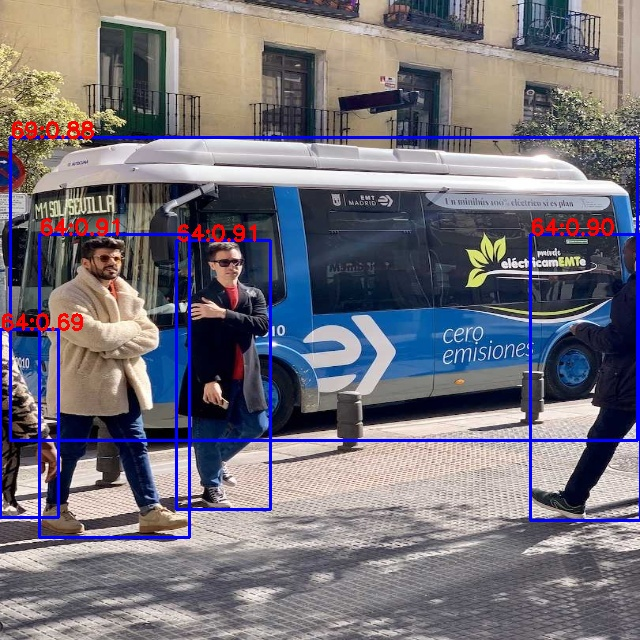
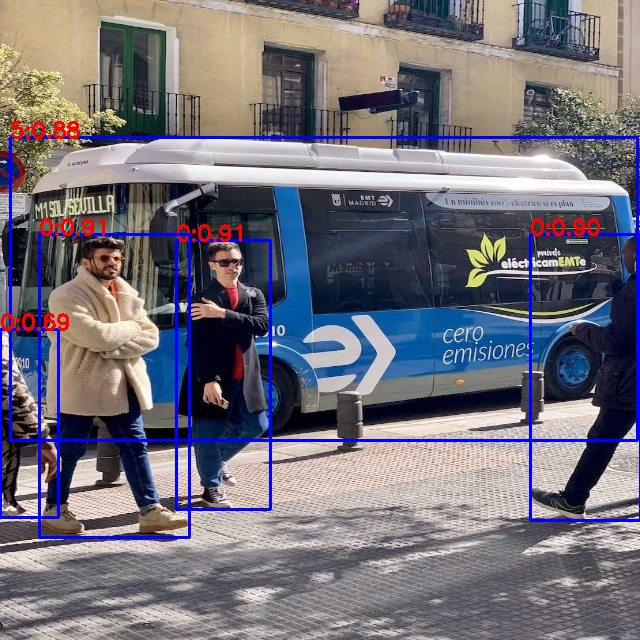
update

diff --git a/yolov11_cpp/examples/rknn_yolov11_05/src/postprocess.cc b/yolov11_cpp/examples/rknn_yolov11_05/src/postprocess.cc
@@ -138,7 +138,7 @@ int GetResultRectyolov11::GetConvDetectionResult(int8_t **outputs, std::vector<i
             if (cls_temp > cls_vlaue)
             {
                 cls_vlaue = cls_temp;
-                cls_index = cl;
+                cls_index = cl - 64;
             }
         }
 
